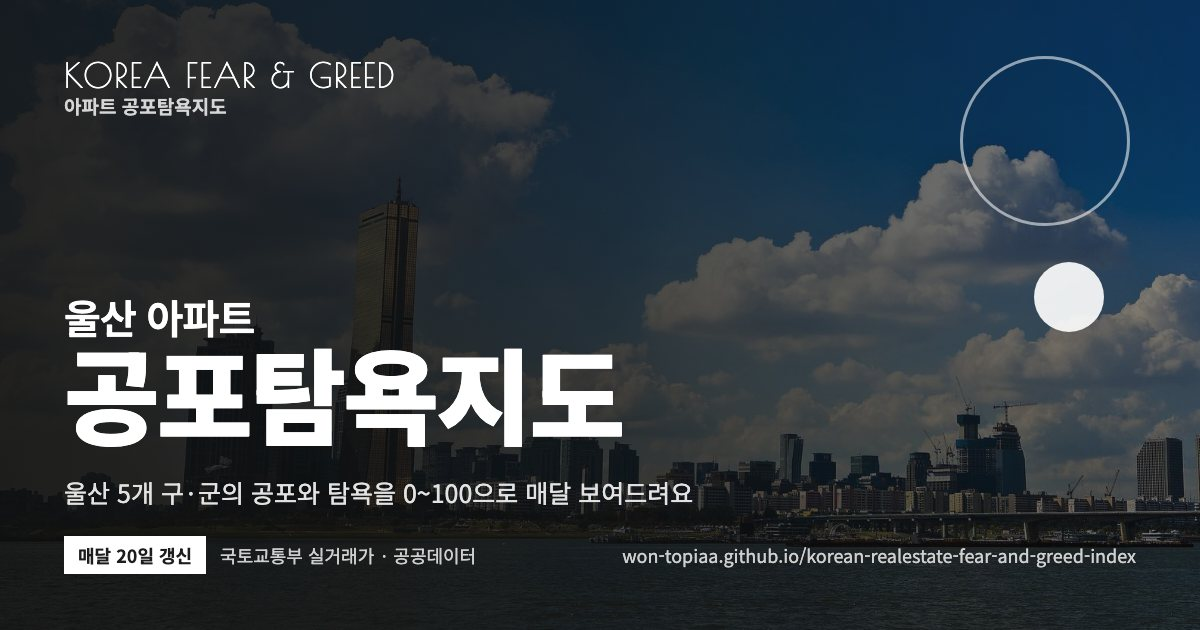
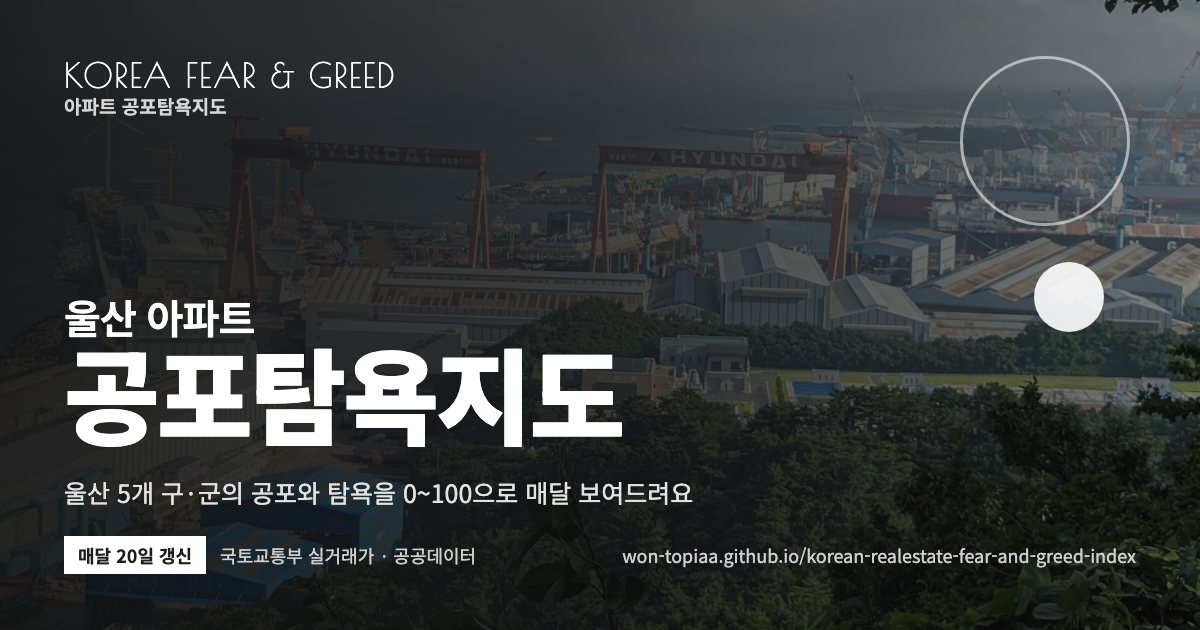
울산 지역 사진: 현대중공업 울산조선소 (CC0, 작가 본인 표시를 위키텍스트로 확인)
- 주전 봉수대에서 본 조선소와 골리앗 크레인. 울산 페이지·링크 미리보기 그림에 반영

diff --git a/README.md b/README.md
@@ -176,7 +176,7 @@
 ## 겉모습과 쓰기 편하게
 - 여섯 페이지(지도·단지 검색·신고가 단지·모의 투자·보고서·데이터 API)에 같은 겉모습을 입혀요: `assets/skin.css`. Figma 커뮤니티의 'Legacy Homes' 디자인을 참고한 회색 바탕·검정 포인트·아주 굵은 제목·각진 카드와 버튼·검정 원 장식·어두운 바닥글이에요. 페이지 구성과 데이터 색(공포 파랑·탐욕 빨강)은 그대로예요.
 - 머리글 메뉴, 첫 화면 사진 띠(페이지 사진을 어둡게 깐 화면 폭 배경, 글자는 흰색), 바닥글은 `site_build.py`가 사이트를 만들 때 끼워 넣어요(원래 템플릿은 그대로). 사진은 인라인 배경으로 넣어요(CSS 변수로 넘기면 주소가 스타일 파일 기준이 돼 최상위 페이지에서 틀어져요). 단지 검색·모의 투자는 검색 전(`body.sk-intro`)에는 그 페이지 사진 한 장을 화면 전체 배경으로 은은하게 깔고, 결과 칸이 보이면 위 띠·아래 바닥글 사진으로 돌아가요. 사진·스타일 주소에는 내용 지문(`?v=`)을 붙여 바꾸면 바로 새 파일이 보여요.
-- 사진은 모두 위키미디어 공용의 **CC0·퍼블릭 도메인**(저작권 없음) 대형 건물 사진이라 출처 표기 의무가 없지만, 바닥글과 `assets/img/credits.json`에 출처를 적어 뒀어요: 63빌딩(USAGI_POST), 롯데월드타워 낮·야경(mauveine.kim), 여의도 스카이라인(pixabay @heecheol890102), 롯데월드타워 불꽃놀이(HyunJae Park), 송파 석촌호수 노을(cmmellow). 지역 페이지: 부산 광안대교(lumoplank), 인천 송도(Hon Kim, Unsplash CC0), 경기 수원 화성 동장대(Bernard Gagnon), 광주 시내(Dohuskor, PD-self), 대전 야경(Bernard Gagnon). 대구 수성못(Choi2451). 울산은 조건에 맞는 사진이 없어 서울 사진을 써요(`bg-{지역}.jpg`가 있으면 그 사진).
+- 사진은 모두 위키미디어 공용의 **CC0·퍼블릭 도메인**(저작권 없음) 대형 건물 사진이라 출처 표기 의무가 없지만, 바닥글과 `assets/img/credits.json`에 출처를 적어 뒀어요: 63빌딩(USAGI_POST), 롯데월드타워 낮·야경(mauveine.kim), 여의도 스카이라인(pixabay @heecheol890102), 롯데월드타워 불꽃놀이(HyunJae Park), 송파 석촌호수 노을(cmmellow). 지역 페이지: 부산 광안대교(lumoplank), 인천 송도(Hon Kim, Unsplash CC0), 경기 수원 화성 동장대(Bernard Gagnon), 광주 시내(Dohuskor, PD-self), 대전 야경(Bernard Gagnon). 대구 수성못(Choi2451), 울산 현대중공업 조선소(Wvdp). 지역 사진이 없으면 서울 사진을 써요(`bg-{지역}.jpg`가 있으면 그 사진).
 - 링크 미리보기(카카오톡·문자·SNS): 페이지마다 1200×630 그림 `assets/og/*.jpg`(사이트와 같은 사진 띠 + 로고 + 두 단 제목, `python og_build.py`로 헤드리스 Chrome에서 만듦)과 og·twitter 메타 태그를 `site_build.py`가 넣어요.
 - 상단 메뉴: 지도 · 단지 검색 · 신고가 단지 · 모의 투자. 보고서와 문의(wontopiaaa@gmail.com, 메일 링크)는 바닥글에. 로고 아래 한글 이름, '화면 밝기' 이름표, 휴대폰은 머리글 2줄(화면 밝기는 버튼 하나로 자동→밝게→어둡게).
 - 휴대폰(600px 이하)은 꼭 필요한 정보 위주: 공통 클래스 `.m-hide`(숨김)·`.m-only`(휴대폰에서만)·`.m-fold`(접고 버튼으로 펼침). 지도는 사용법·시기 바로가기·권역 게이지 6개·추이 설명·표 보기를 숨기고 지표 구성·순위와 계산 방법은 접음, 단지 검색은 핵심 정보 4개(세대수·입주·용적률·최고층) 먼저, 신고가는 구 상위 8곳·목록 20건씩·표는 단지·거래가·오른 폭, 모의 투자 비교 표는 단지·수익률·연평균, 보고서는 첫 절만 펴고 나머지 15개 절은 제목 버튼으로 접음(펼칠 때 그래프 다시 그림). 휴대폰 페이지 길이: 지도 약 5,000→3,200px, 신고가 9,800→5,500px, 보고서 20,500→6,200px. 컴퓨터 화면은 그대로.
@@ -276,4 +276,4 @@ python -m venv .venv && .venv/bin/pip install -r requirements.txt
 - 전세가율 (전월세 실거래 API 활용신청 필요)
 - 실시간 검증 기록 쌓기 (첫 채점은 2028년 하반기 예상)
 - 협업 검토: KB 자료 이용 조건 확인, 또는 협업 상대의 매물·호가 자료로 KB 설문 대체
-- 수도권·광역시: 실거래를 다 받으면 검증용 5개 지역으로 대안 비교 → 공개 여부 결정, 울산 대표 사진(CC0 찾는 중)
+- 수도권·광역시: 실거래를 다 받으면 검증용 5개 지역으로 대안 비교 → 공개 여부 결정
